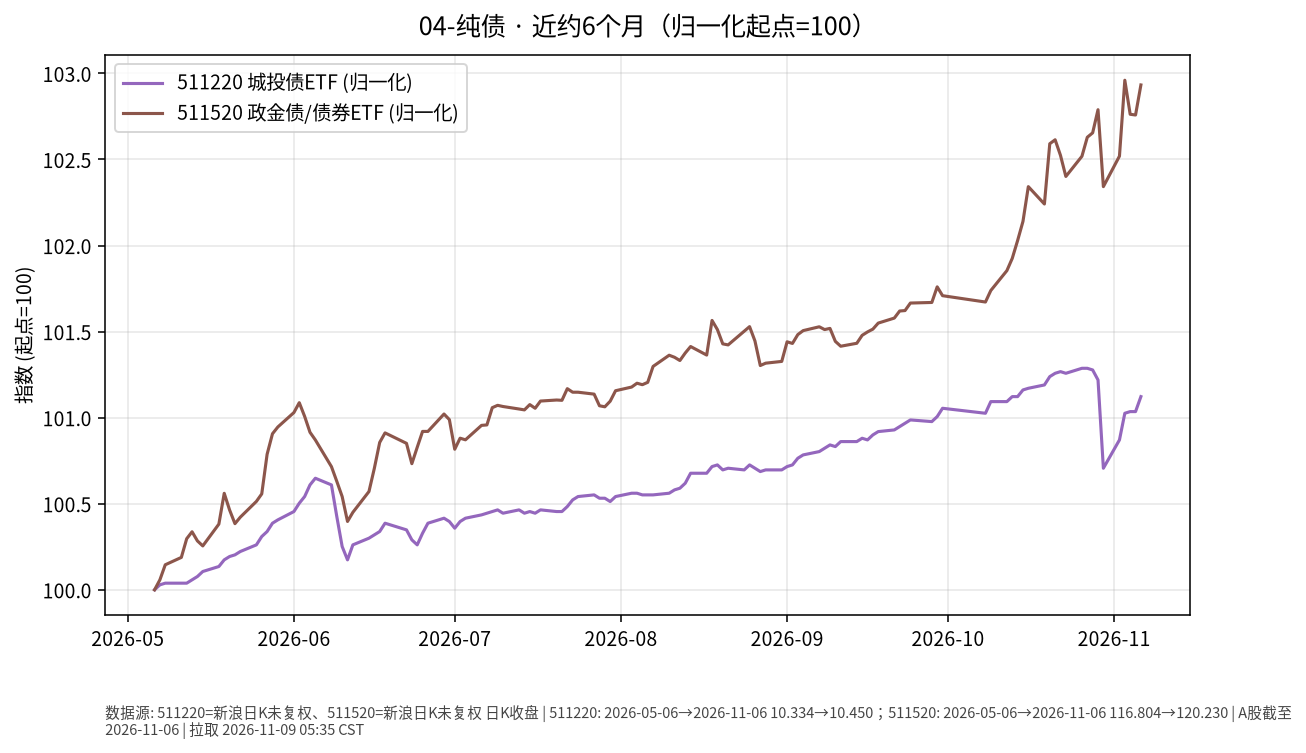
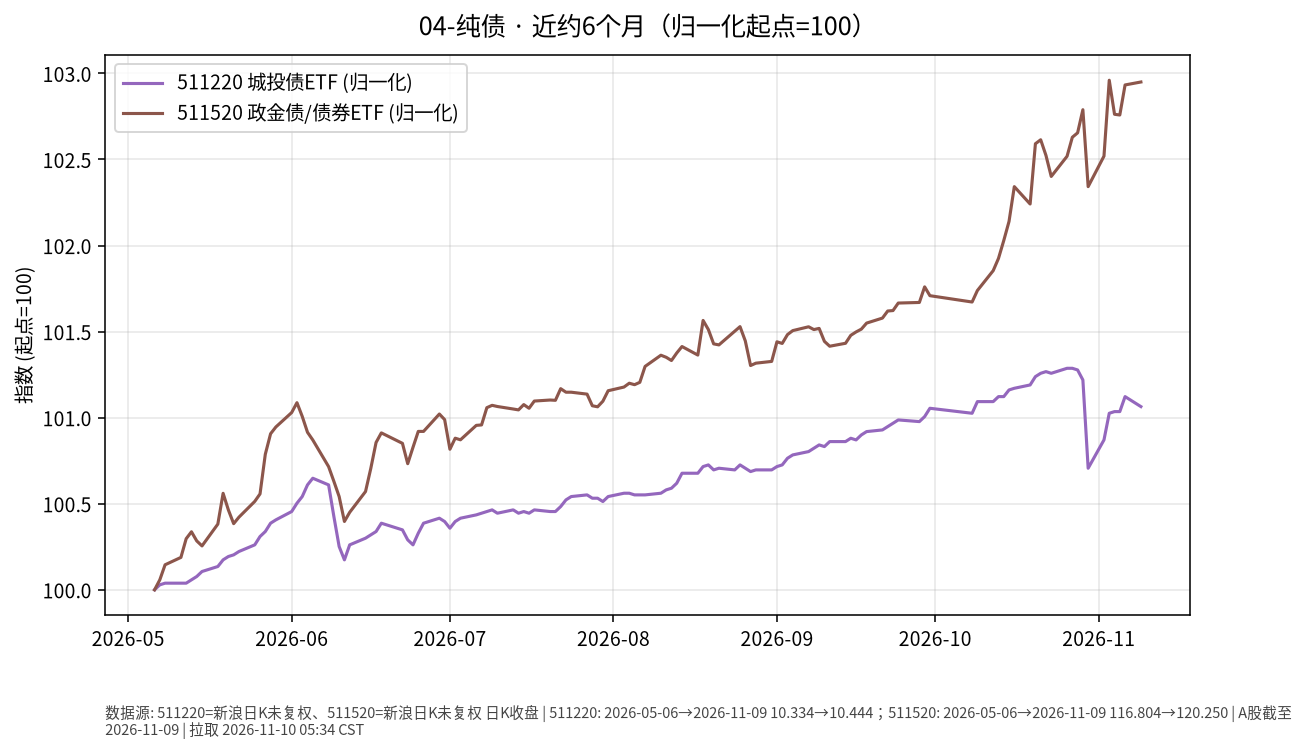
docs: 五门类投资日报 2026-11-10

diff --git a/01-黄金/日报/2026-11-10.md b/01-黄金/日报/2026-11-10.md
@@ -1,0 +1,30 @@
+# 黄金 · 日报 2026-11-10
+
+## 市场状态
+- **报告日**：2026-11-10（周二，Asia/Shanghai 盘前例程）
+- **数据截止交易日**：A 股/沪金/GLD 均为 **2026-11-09（周一）**。今日 A 股尚未开盘；本页数字不含周二盘中。
+- GLD 收盘 **379.53**，较前一交易日（2026-11-06 的 372.52）**+1.88%**（yfinance；新浪 hq `gb_gld` 报 379.53，交叉一致）。
+- 沪金 AU9999：**2026-11-09** 收盘 **881.00** 元/克（**+1.43%**）；黄金 ETF 518880 收 **8.375**（**+1.48%**）。
+
+## 关键数据
+| 标的 | 最近收盘日 | 收盘 | 日涨跌 | 近约6个月（归一起点日） | 区间涨跌 |
+|------|------------|------|--------|-------------------------|----------|
+| GLD | 2026-11-09 | 379.53 | +1.88% | 2026-05-01→2026-11-09 | -10.31% |
+| 518880 黄金ETF | 2026-11-09 | 8.375 | +1.48% | 2026-05-06→2026-11-09 | -14.46% |
+| AU9999（沪金） | 2026-11-09 | 881.00 | +1.43% | 2026-05-06→2026-11-09 | -14.21% |
+
+![近6个月走势](charts/01-黄金-6m.png)
+
+## 简要解读
+- 美元计价黄金 ETF（GLD）在 **2026-11-09** 较前一交易日约 **+1.88%**；境内 518880 约 **+1.48%**，沪金 AU9999 约 **+1.43%**。近约半年归一后约 **-10.31%～-14.46%**（自 5 月高位回撤后的区间路径）。
+- 价格变动同时受美元、实际利率与风险情绪影响；本页只描述已发生报价，不推断下一步方向。
+
+## 关注点与风险
+- 汇率：境内投资者若以人民币计量，还需叠加美元兑人民币变动，账面涨跌可能与 GLD 美元涨跌不一致。
+- 波动：黄金单日可达数个百分点；ETF 净值/溢价、交易时段与现货不完全同步。
+- 数据完整性：GLD 历史至 11-09 来自 yfinance（新浪 `gb_gld` 报 379.53，与收盘一致）；518880 新浪日 K；SGE Au99.99 完整。
+
+## 来源与时间
+- GLD：yfinance（至 2026-11-09）；新浪 hq `gb_gld` 交叉核对 379.53
+- 518880：新浪日 K；AU9999：上海金交所 Dailyhq
+- 图表：Python matplotlib，收盘价归一到起点=100（图窗自 2026-05-01 起）；拉取约 2026-11-10 05:34:15 CST

diff --git a/03-国债/日报/2026-11-10.md b/03-国债/日报/2026-11-10.md
@@ -1,0 +1,29 @@
+# 国债 · 日报 2026-11-10
+
+## 市场状态
+- **报告日**：2026-11-10（周二盘前）；**数据截止交易日**：**2026-11-09**。今日尚未开盘；本页数字不含周二盘中。
+- 国债 ETF 511010 收 **141.458**，日涨跌 **+0.006%**。
+- 中债国债收益率曲线 **10 年期** 2026-11-09 报 **1.5874%**，较上一可得日（2026-11-06 的 1.5868%）约 **+0.06 BP**（akshare `bond_zh_us_rate`）。
+- **提醒**：利率上行（曲线上移）通常对应既有国债价格承压；图中 ETF 净值涨 ≠ 收益率涨。**利率↑线↑≠债价涨**。
+
+## 关键数据
+| 标的 | 收盘日 | 收盘/收益率 | 日变化 | 约6个月 | 区间 |
+|------|--------|-------------|--------|---------|------|
+| 511010 | 2026-11-09 | 141.458 | +0.006% | 2026-05-06→2026-11-09 | +0.46% |
+| 中债10Y国债收益率 | 2026-11-09 | 1.5874% | 约+0.06 BP | 2026-05-06→2026-11-09 | 约 -17.80 BP（akshare 序列） |
+
+![近6个月走势](charts/03-国债-6m.png)
+
+## 简要解读
+- 511010 近半年归一涨跌约 **+0.46%**，路径相对平缓；2026-11-09 日涨跌 +0.006%，同时 10Y 收益率较前一可得日约 +0.06 BP（变动极小，单日仍可能受供需/折溢价影响）。
+- 久期越长，对收益率变化越敏感；本页只记录 ETF 收盘与曲线点位。图中右轴叠加中国10Y收益率日序。
+
+## 关注点与风险
+- 利率风险：收益率上行 → 债券市价下行。
+- 通胀预期、货币政策与供需（供给放量等）都会改变曲线形态。
+- 收益率序列来自公开曲线汇总，与 ETF 交易价时间戳不完全同步。
+
+## 来源与时间
+- 511010：新浪日 K；截止 2026-11-09
+- 收益率：akshare `bond_zh_us_rate`（2026-11-09，10Y=1.5874%）
+- 图表：matplotlib，ETF 收盘归一=100，中国10Y 收益率右轴；图注已写「利率↑线↑≠债价涨」；拉取约 2026-11-10 05:34:15 CST

diff --git a/05-高股息/日报/2026-11-10.md b/05-高股息/日报/2026-11-10.md
@@ -1,0 +1,30 @@
+# 高股息 · 日报 2026-11-10
+
+## 市场状态
+- **报告日**：2026-11-10（周二盘前）；**数据截止交易日**：**2026-11-09**。今日尚未开盘；本页数字不含周二盘中。
+- 红利 ETF 510880 收 **3.402**（**+0.92%**）。
+- 招商银行 600036 收 **43.01**（**+0.30%**）；长江电力 600900 收 **29.83**（**-0.27%**）。
+- 510880、招行同日上行，长电小幅回落；分红与价格涨跌是两回事（股息率随股价变动）。
+- **价格口径**：本页序列为交易所日 K **未复权**收盘（新浪）。
+
+## 关键数据
+| 标的 | 收盘日 | 收盘 | 日涨跌 | 约6个月 | 区间涨跌 |
+|------|--------|------|--------|---------|----------|
+| 510880 红利ETF | 2026-11-09 | 3.402 | +0.92% | 2026-05-06→2026-11-09 | +1.83% |
+| 600036 招商银行 | 2026-11-09 | 43.01 | +0.30% | 2026-05-06→2026-11-09 | +13.18% |
+| 600900 长江电力 | 2026-11-09 | 29.83 | -0.27% | 2026-05-06→2026-11-09 | +9.67% |
+
+![近6个月走势](charts/05-高股息-6m.png)
+
+## 简要解读
+- 近半年归一（未复权）：510880 约 **+1.83%**，招行约 **+13.18%**，长电约 **+9.67%**（个股路径强于宽基红利 ETF，不代表未来）。
+- 2026-11-09：510880 **+0.92%**、招行 **+0.30%**、长电 **-0.27%**，属已发生的价格事实。
+
+## 关注点与风险
+- 银行与公用事业对利率、监管、来水/电价等基本面敏感；高股息不保证本金稳定。
+- 510880 成分与权重定期调整；个股与 ETF 走势可显著偏离。
+- 未复权序列在除权除息日会出现跳空，与前复权路径不一致属正常。
+
+## 来源与时间
+- 510880 / 600036 / 600900：新浪 CN_MarketData K 线（未复权）
+- 截止 2026-11-09；图表 matplotlib，起点=100；图注写明未复权；拉取约 2026-11-10 05:34:15 CST

diff --git a/02-中短债/日报/2026-11-10.md b/02-中短债/日报/2026-11-10.md
@@ -1,0 +1,28 @@
+# 中短债 · 日报 2026-11-10
+
+## 市场状态
+- **报告日**：2026-11-10（周二盘前）；**A 股数据截止交易日**：**2026-11-09**。今日尚未开盘；本页数字不含周二盘中。
+- 短融 ETF 511360 收 **114.160**（日涨跌 **+0.007%**）。
+- 159649（国开债 ETF 华安）收 **110.928**（日涨跌 **+0.005%**）。
+- 短端品种单日变动极小；仅作路径对照，非交易建议。
+
+## 关键数据
+| 标的 | 收盘日 | 收盘 | 日涨跌 | 约6个月区间 | 区间涨跌 |
+|------|--------|------|--------|-------------|----------|
+| 511360 短融ETF海富通 | 2026-11-09 | 114.160 | +0.007% | 2026-05-06→2026-11-09 | +0.67% |
+| 159649 国开债ETF华安 | 2026-11-09 | 110.928 | +0.005% | 2026-05-06→2026-11-09 | +1.14% |
+
+![近6个月走势](charts/02-中短债-6m.png)
+
+## 简要解读
+- 两条曲线近半年均呈缓慢抬升（归一后约 **+0.67%** / **+1.14%**），单日波动接近于零，符合短久期利率品种特征。
+- 159649 跟踪国开债，久期与信用暴露通常高于纯短融；与 511360 并排只为对照路径，不暗示优劣。
+
+## 关注点与风险
+- 利率上行时净值可能回撤（即使票息仍为正）。
+- ETF 折溢价、流动性与跟踪误差；节假日后跳空可能出现。
+- 杠杆与加久期会放大波动——本报告不讨论、不鼓励此类操作。
+
+## 来源与时间
+- 新浪 CN_MarketData 日 K，截止 2026-11-09
+- 图表：matplotlib，起点归一=100；拉取约 2026-11-10 05:34:15 CST

diff --git a/04-纯债/日报/2026-11-10.md b/04-纯债/日报/2026-11-10.md
@@ -1,0 +1,28 @@
+# 纯债 · 日报 2026-11-10
+
+## 市场状态
+- **报告日**：2026-11-10（周二盘前）；**数据截止交易日**：**2026-11-09**。今日尚未开盘；本页数字不含周二盘中。
+- 城投债 ETF 511220 收 **10.444**（**-0.057%**）。
+- 政金债/债券 ETF 511520 收 **120.250**（**+0.017%**）。
+- 两品种单日变动较小；近半年仍呈缓慢抬升。
+
+## 关键数据
+| 标的 | 收盘日 | 收盘 | 日涨跌 | 约6个月区间 | 区间涨跌 |
+|------|--------|------|--------|-------------|----------|
+| 511220 城投债ETF海富通 | 2026-11-09 | 10.444 | -0.057% | 2026-05-06→2026-11-09 | +1.06% |
+| 511520 政金债ETF富国 | 2026-11-09 | 120.250 | +0.017% | 2026-05-06→2026-11-09 | +2.95% |
+
+![近6个月走势](charts/04-纯债-6m.png)
+
+## 简要解读
+- 近半年归一：511220 约 **+1.06%**，511520 约 **+2.95%**；2026-11-09 两品种分别约 -0.057% / +0.017%，属已发生价格事实。
+- 城投债含信用利差暴露，政金债更偏利率；并排对照路径，不评价孰优。
+
+## 关注点与风险
+- 信用利差扩张时，城投/信用类净值回撤可能大于利率债。
+- 利率上行同样压制久期更长的品种。
+- ETF 折溢价与跟踪误差；本报告不讨论杠杆与下沉信用。
+
+## 来源与时间
+- 新浪 CN_MarketData 日 K，截止 2026-11-09
+- 图表：matplotlib，起点归一=100；拉取约 2026-11-10 05:34:15 CST

diff --git a/notes/invest-knowledge-100/今日一点/2026-11-10-day12.md b/notes/invest-knowledge-100/今日一点/2026-11-10-day12.md
@@ -1,0 +1,5 @@
+# 今日一点 · Day 12/100 · 《阶段小结 A：应急金月数与可投年限》
+
+**结论：** 地基阶段收束成两行自检——「应急金能撑几个月开支」和「闲置资金至少多久不用」；写不清就先别加久期或股票。
+
+**机制：** 应急金通常按月支出的 3–12 倍放在随时能用的活钱里，不进长债或股票，避免急用时被迫低点变现。可投资年限决定债底仓久期上限：一年内要用的钱，波动预算接近于零；三年以上闲钱，才谈得上更长票息路径。A 阶段从风险语言、流动性分层到净值结算，都是为这两行数字服务；先把债底仓边界画清，以后若划拨股票卫星，也只从「年限够长、应急金已锁」的那一笔里切有上限的比例。今天只完成自检清单，不定买卖。

diff --git a/notes/invest-knowledge-100/progress.md b/notes/invest-knowledge-100/progress.md
@@ -1,4 +1,4 @@
-next_day: 12
+next_day: 13
 started: 2026-10-26
-last_completed_day: 11
-last_date: 2026-11-09
+last_completed_day: 12
+last_date: 2026-11-10
